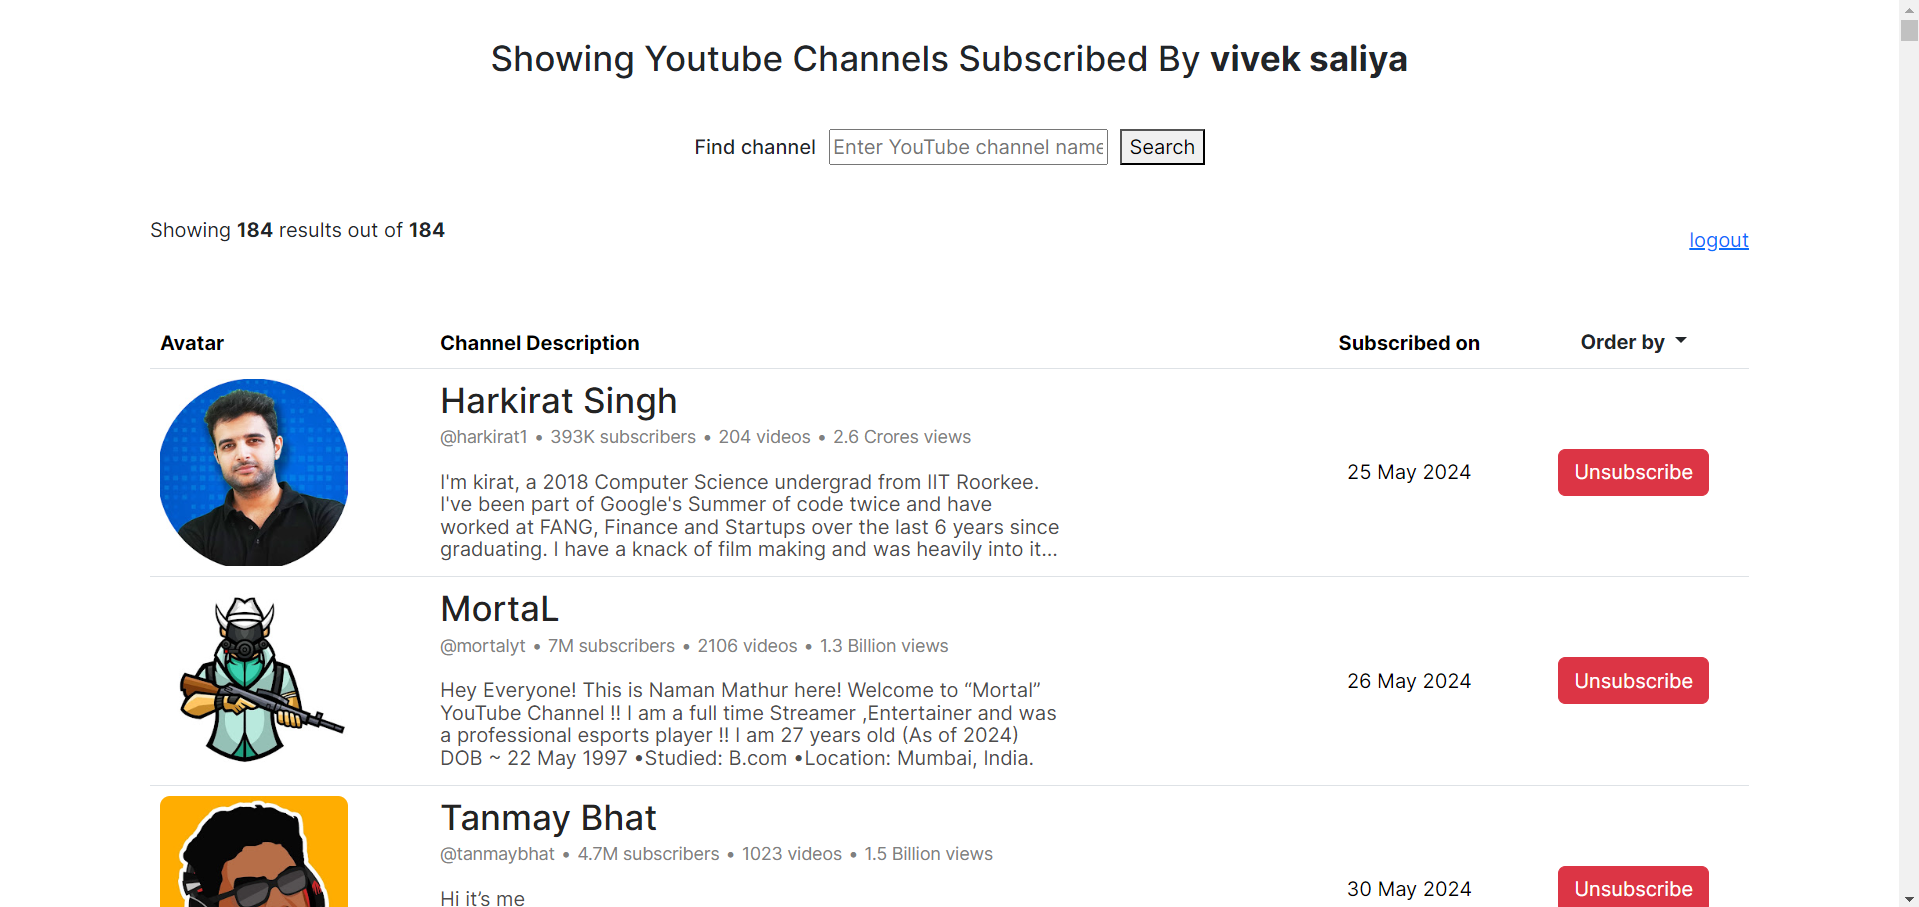
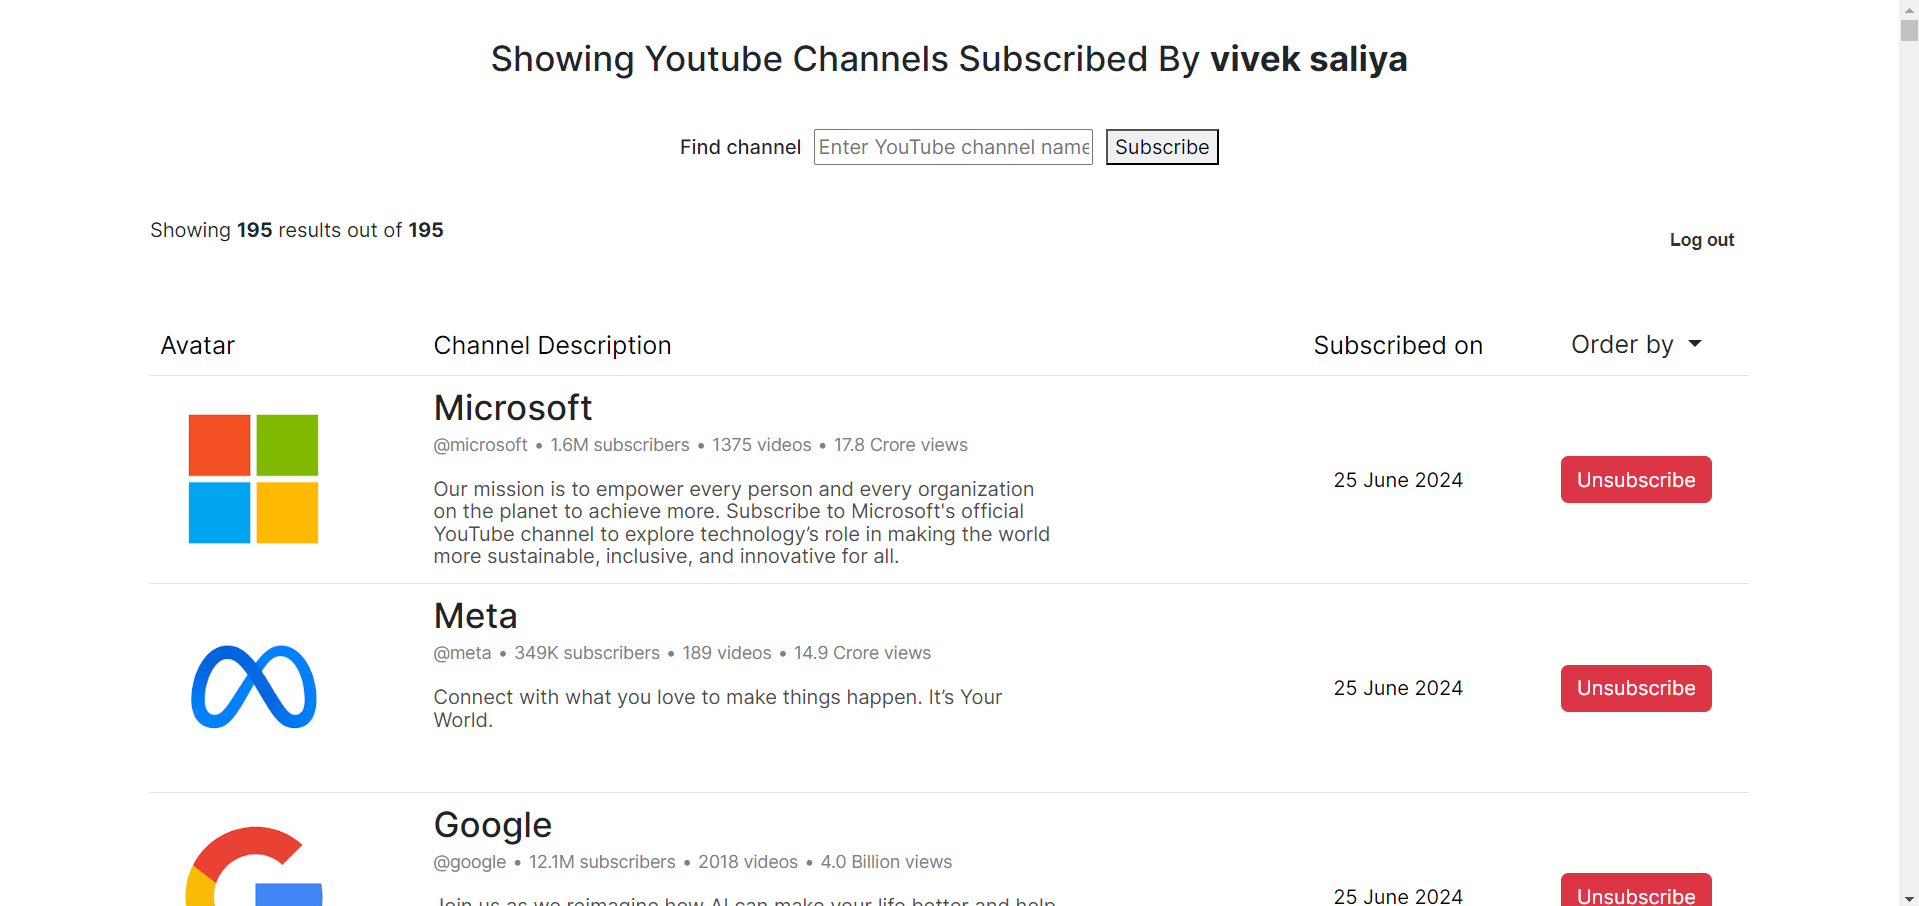
add screeshot

diff --git a/README.md b/README.md
@@ -10,9 +10,9 @@ unticked boxes shows _feature to be built in the future_
 
 - [x] **View Subscriptions**: Display a list of YouTube channels the user is subscribed to.
 - [x] **Sort Subscriptions**: Sort subscriptions by alphabetical order, relevance, or activity.
-- [x] **Search Channels**: Search for YouTube channels by name or ID.
 - [x] **Unsubscribe**: Unsubscribe from channels.
-- [ ] **Subscribe**: Subscribe to new channels.
+- [x] **Subscribe**: Subscribe to new channels.
+- [ ] **Search Channels**: Search for YouTube channels by name or ID.
 - [ ] **Pagination**: Load more subscriptions dynamically.
 
 ## Technologies Used
